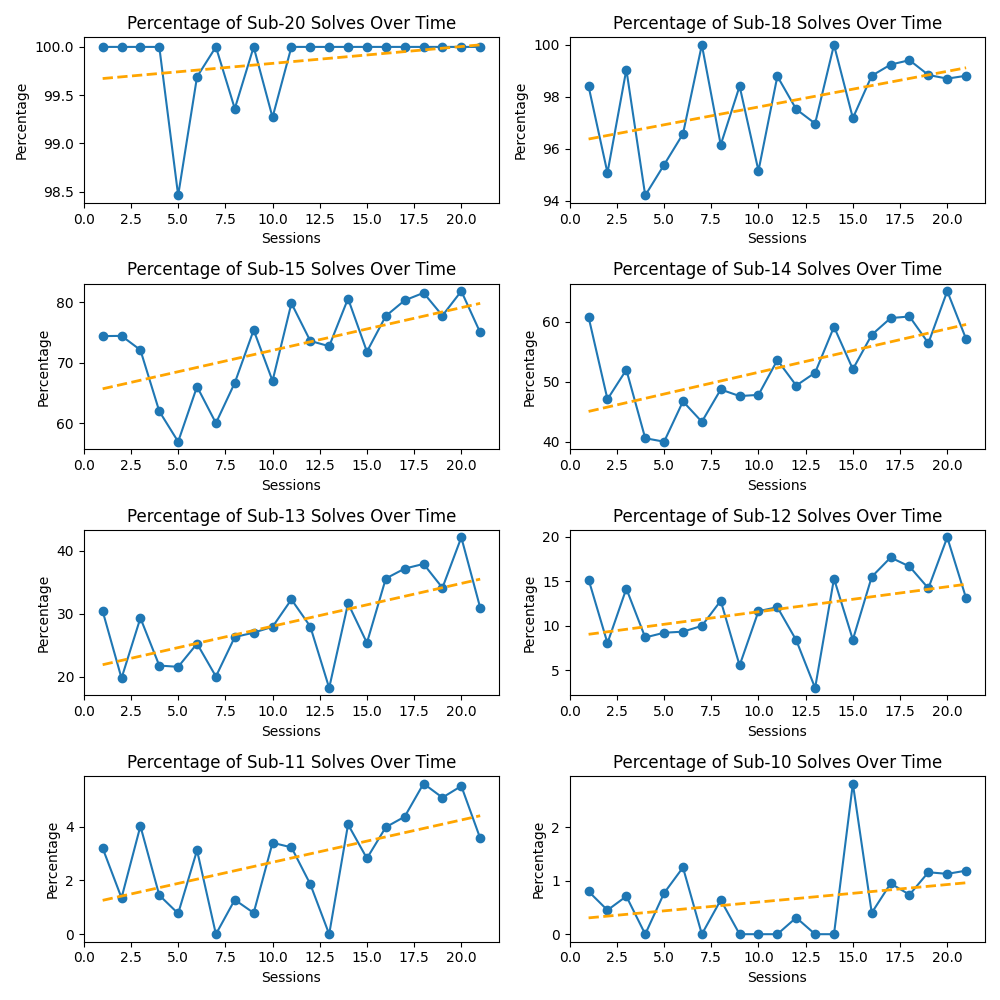
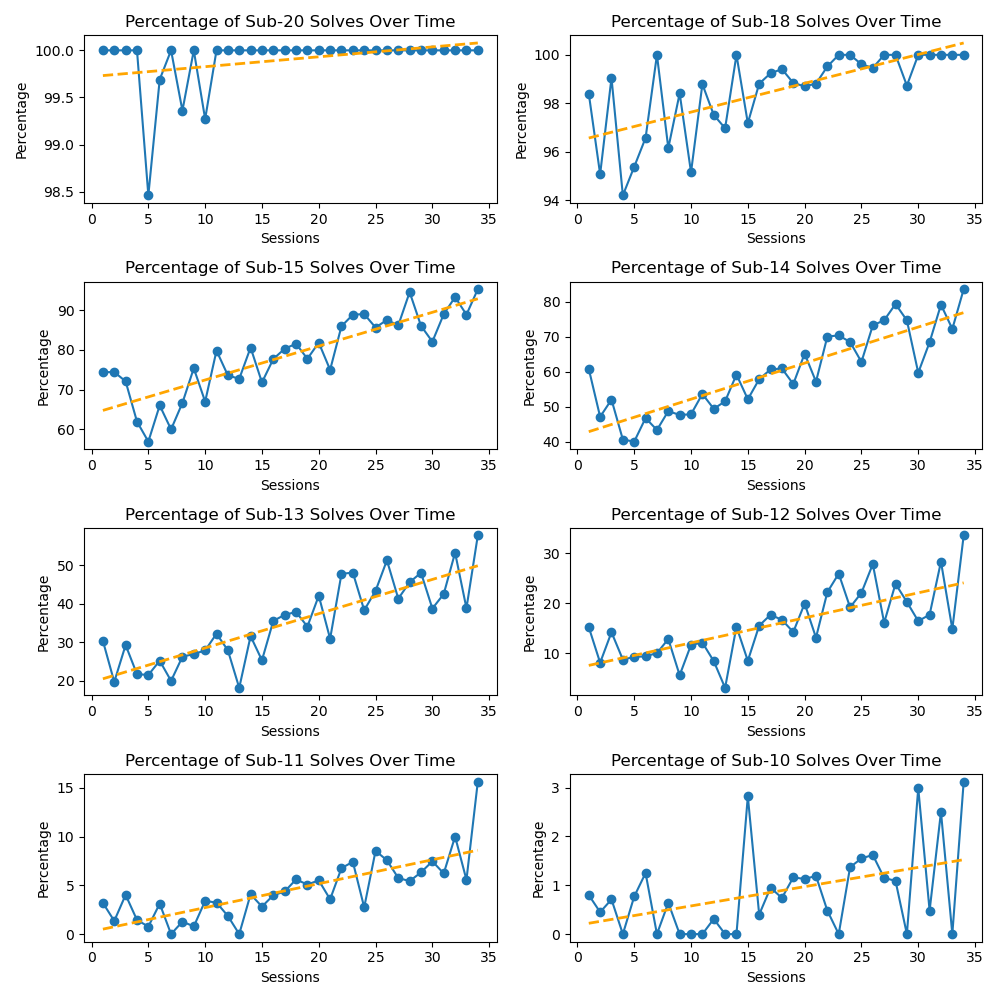
Made Changes

diff --git a/full_analysis.py b/full_analysis.py
@@ -4,7 +4,7 @@ import json
 import matplotlib.pyplot as plt 
 import time 
 
-f = open('cstimer_20230123_120616.txt')
+f = open('cstimer_20230607_140732.txt')
 data = json.load(f)
 
 def find_all_sessions(data, exclude_sessions):
@@ -168,10 +168,10 @@ exclude_sessions = [1]
 sub_ofs = [20, 18, 15, 14, 13, 12, 11, 10]
 
 sessions = find_all_sessions(data, exclude_sessions)
-# create_all_plots(data, sessions, sub_ofs)
+create_all_plots(data, sessions, sub_ofs)
 
 # data_points = generate_data_list(data, sessions)
 # print(len(data_points))
 
-create_averages_plot(data, sessions, 5)
+# create_averages_plot(data, sessions, 5)
 

diff --git a/time_analysis_3x3.py b/time_analysis_3x3.py
@@ -52,11 +52,11 @@ def generateStats(session):
 # Sub-20: %% , Num of Solves: ##
 # Sub-15: %% , Num of Solves: ##
 
-f = open('cstimer_20230123_112143.txt')
+f = open('cstimer_20230206_003150.txt')
 data = json.load(f)
-session = data['session1']
+session = data['session27']
 # session = np.array(list(map(getSolveTime, session))) / 1000 
-session = session[1500:]
+# session = session[1500:]
 getTotalNumSolves(session)
 getSubOf(session, 20)
 getSubOf(session, 15)
